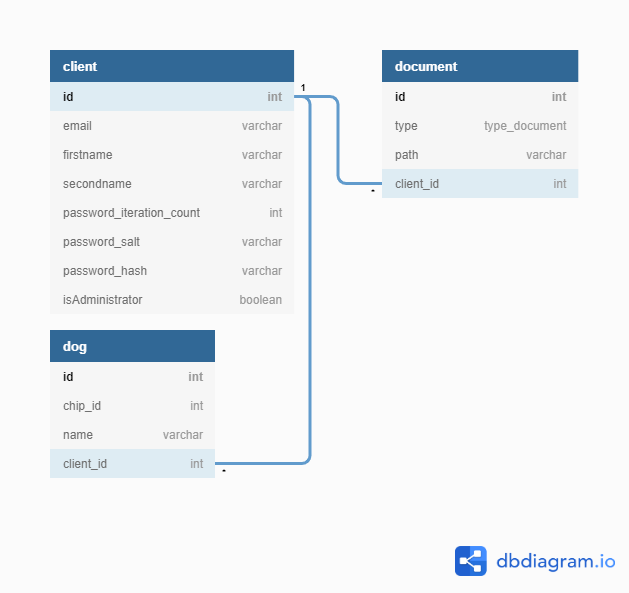
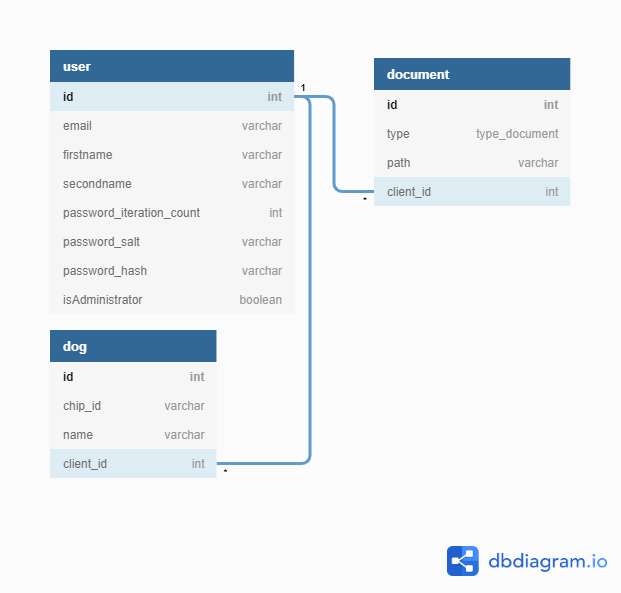
[WORK SCHOOL] 05.11.20
-Version final of the specifications

diff --git a/documentation/BJ_CahierDesCharges.md b/documentation/BJ_CahierDesCharges.md
@@ -20,6 +20,105 @@ Le client aura également la possibilité de se connecter afin de consulter ses 
 
 ![image database](../database/DB_DouceurDeChien.png)
 
+<table>
+    <tr>
+    	<th style="text-align:center" COLSPAN="4">user</th>
+    </tr>
+    <tr>
+        <th>Nom</th>
+        <th>Type</th>
+        <th>Null</th>
+        <th>Définition</th>
+    </tr>
+    <tr>
+        <td>email</td>
+        <td>varchar</td>
+        <td>not null</td>
+        <td>Addresse email du client.</td>
+    </tr>
+    <tr>
+        <td>firstname</td>
+        <td>varchar</td>
+        <td>not null</td>
+        <td>Prénom du client.</td>
+    </tr>
+    <tr>
+        <td>secondname</td>
+        <td>varchar</td>
+        <td>not null</td>
+        <td>Nom du client.</td>
+    </tr>
+    <tr>
+        <td>password_iteration_count</td>
+        <td>int</td>
+        <td>not null</td>
+        <td>Nombre d'itération pour l'encryptage du mot de passe avec PBKDF2.</td>
+    </tr>
+    <tr>
+        <td>password_salt</td>
+        <td>varchar</td>
+        <td>not null</td>
+        <td>Donnée de salage du mot de passe.</td>
+    </tr>
+    <tr>
+        <td>password_hash</td>
+        <td>varchar</td>
+        <td>not null</td>
+        <td>Mot de passe hashé.</td>
+    </tr>
+    <tr>
+        <td>isAdministrator</td>
+        <td>boolean</td>
+        <td>not null</td>
+        <td>Booléan définisant le rôle de l'utilisateur.</td>
+    </tr>
+
+   <table>
+    <tr>
+    	<th style="text-align:center" COLSPAN="4">document</th>
+    </tr>
+    <tr>
+        <th>Nom</th>
+        <th>Type</th>
+        <th>Null</th>
+        <th>Définition</th>
+    </tr>
+    <tr>
+        <td>type</td>
+        <td>type_document</td>
+        <td>not null</td>
+        <td>Type de document (conditions d'inscription, poster, résumé du cours canin,ect...) .</td>
+    </tr>
+    <tr>
+        <td>path</td>
+        <td>varchar</td>
+        <td>not null</td>
+        <td>Chemin d'accès du document.</td>
+    </tr>
+
+   <table>
+    <tr>
+    	<th style="text-align:center" COLSPAN="4">dog</th>
+    </tr>
+    <tr>
+        <th>Nom</th>
+        <th>Type</th>
+        <th>Null</th>
+        <th>Définition</th>
+    </tr>
+    <tr>
+        <td>chip_id</td>
+        <td>varchar</td>
+        <td>null</td>
+        <td>Code composé de 15 chiffres (3 pour le pays, 2 pour le type d'animal, 2 pour le fabricant, 8 pour le n° de l'animal).</td>
+    </tr>
+    <tr>
+        <td>name</td>
+        <td>varchar</td>
+        <td>not null</td>
+        <td>Nom du chien.</td>
+    </tr>
+
 ## Liste des fonctionnalités
 
 #### Éducateur canin
@@ -84,17 +183,17 @@ Local Storage
 
 ## Listes des tâches par priorité
 
-| **Tâches**                                                                                                                | **Priorité** | **Estimation de temps en période** |
-|---------------------------------------------------------------------------------------------------------------------------|--------------|------------------------------------|
-| Publication                                                                                                               | 6            | 8                                  |
-| Créer la base de données                                                                                                  | 3            | 2                                  |
-| Créer la page d'inscription                                                                                               | 5            | 4                                  |
-| Créer la page de connexion                                                                                                | 4            | 2                                  |
-| Créer la page de recherche d'utilisateur pour les administrateurs                                                         | 7            | 2                                  |
-| Créer la page de consultation des informations de l'utilisateur pour client et administrateur \(info \+ fichier partagé\) | 2            | 12                                 |
-| Créer la page d'édition du client                                                                                         | 8            | 2                                  |
-| Créer la page de création de contrat                                                                                      | 1            | 8                                  |
-| Tests et résolution de bugs                                                                                               | 9            | 8                                  |
+| **Tâches**                                                   | **Priorité** | **Estimation de temps en période** | MVP  |
+| ------------------------------------------------------------ | ------------ | ---------------------------------- | ---- |
+| Publication                                                  | 6            | 8                                  | Oui  |
+| Créer la base de données                                     | 3            | 2                                  | Oui  |
+| Créer la page d'inscription                                  | 5            | 4                                  | Oui  |
+| Créer la page de connexion                                   | 4            | 2                                  | Oui  |
+| Créer la page de recherche d'utilisateur pour les administrateurs | 7            | 2                                  | Non  |
+| Créer la page de consultation des informations de l'utilisateur pour client et administrateur \(info \+ fichier partagé\) | 2            | 12                                 | Oui  |
+| Créer la page d'édition du client                            | 8            | 2                                  | Non  |
+| Créer la page de création de contrat                         | 1            | 8                                  | Oui  |
+| Tests et résolution de bugs                                  | 9            | 8                                  | Non  |
 
 
 ## Planning
@@ -106,7 +205,7 @@ Local Storage
 - Ordinateur Windows 10
 - IDE (Visual Studio Code)
 - Outil de versioning de code (GIT avec repository en ligne sur GitHub)
-- Outil bureautique (Typora)
+- Outil bureautique ([Typora](https://typora.io/))
 - Éditeur de diagramme ([Visual Paradigm Online](https://online.visual-paradigm.com/fr/))
 - Éditeur de base de données ([dbdiagram.io](https://dbdiagram.io/home))
 - Éditeur de maquette ([Pencil](https://pencil.evolus.vn/))
